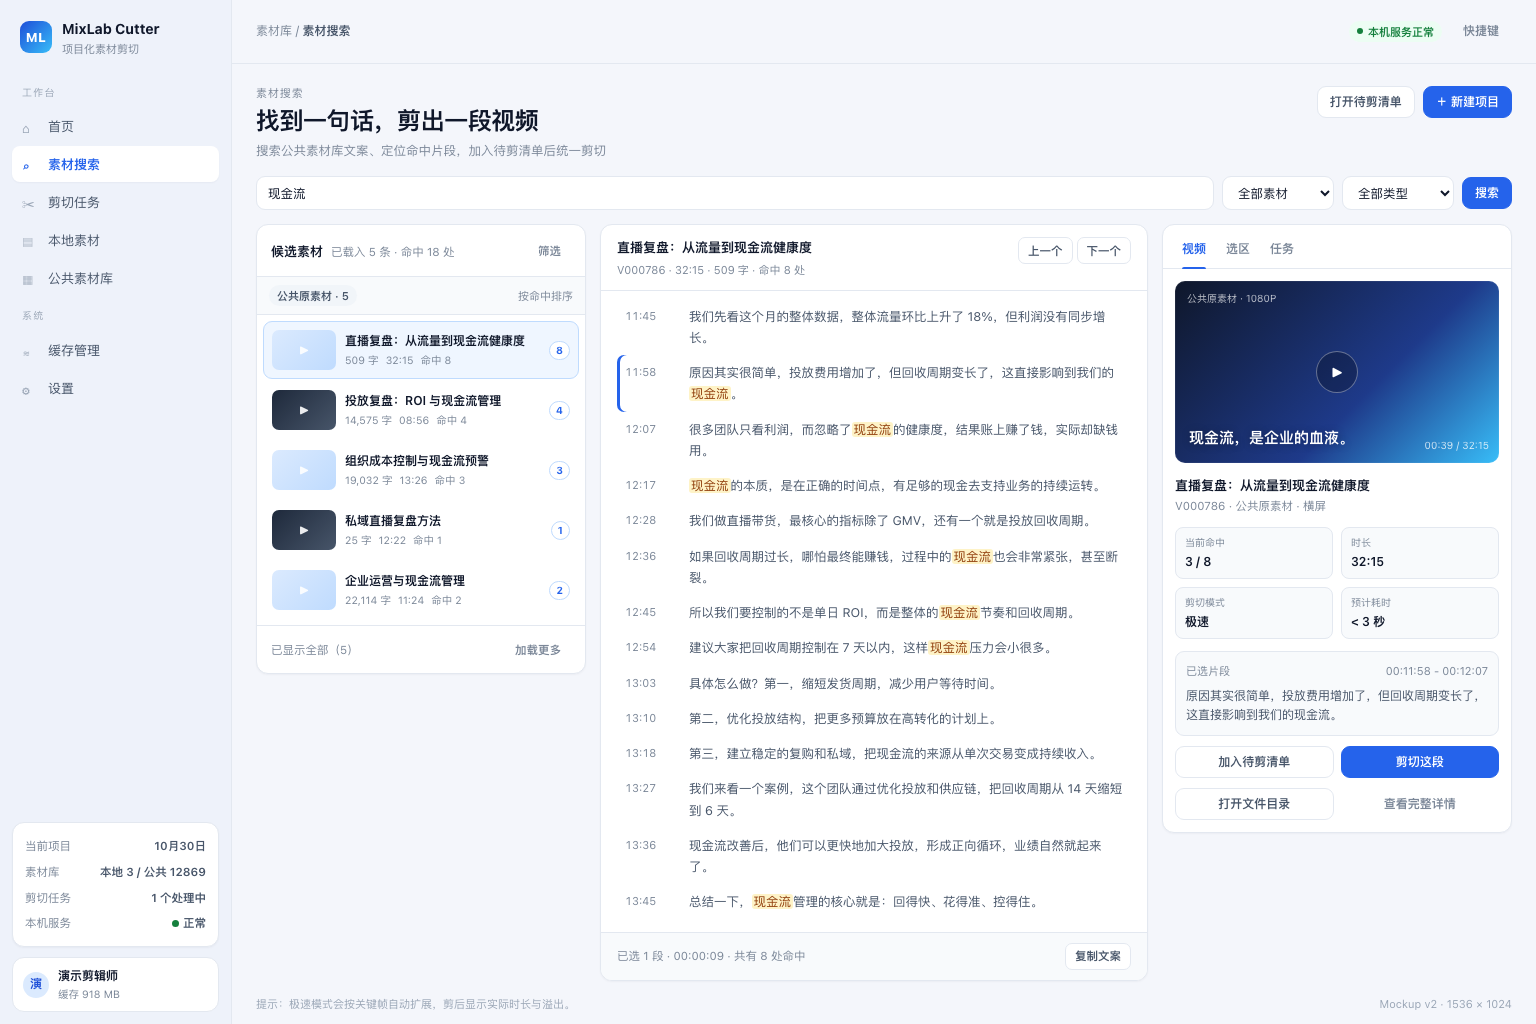
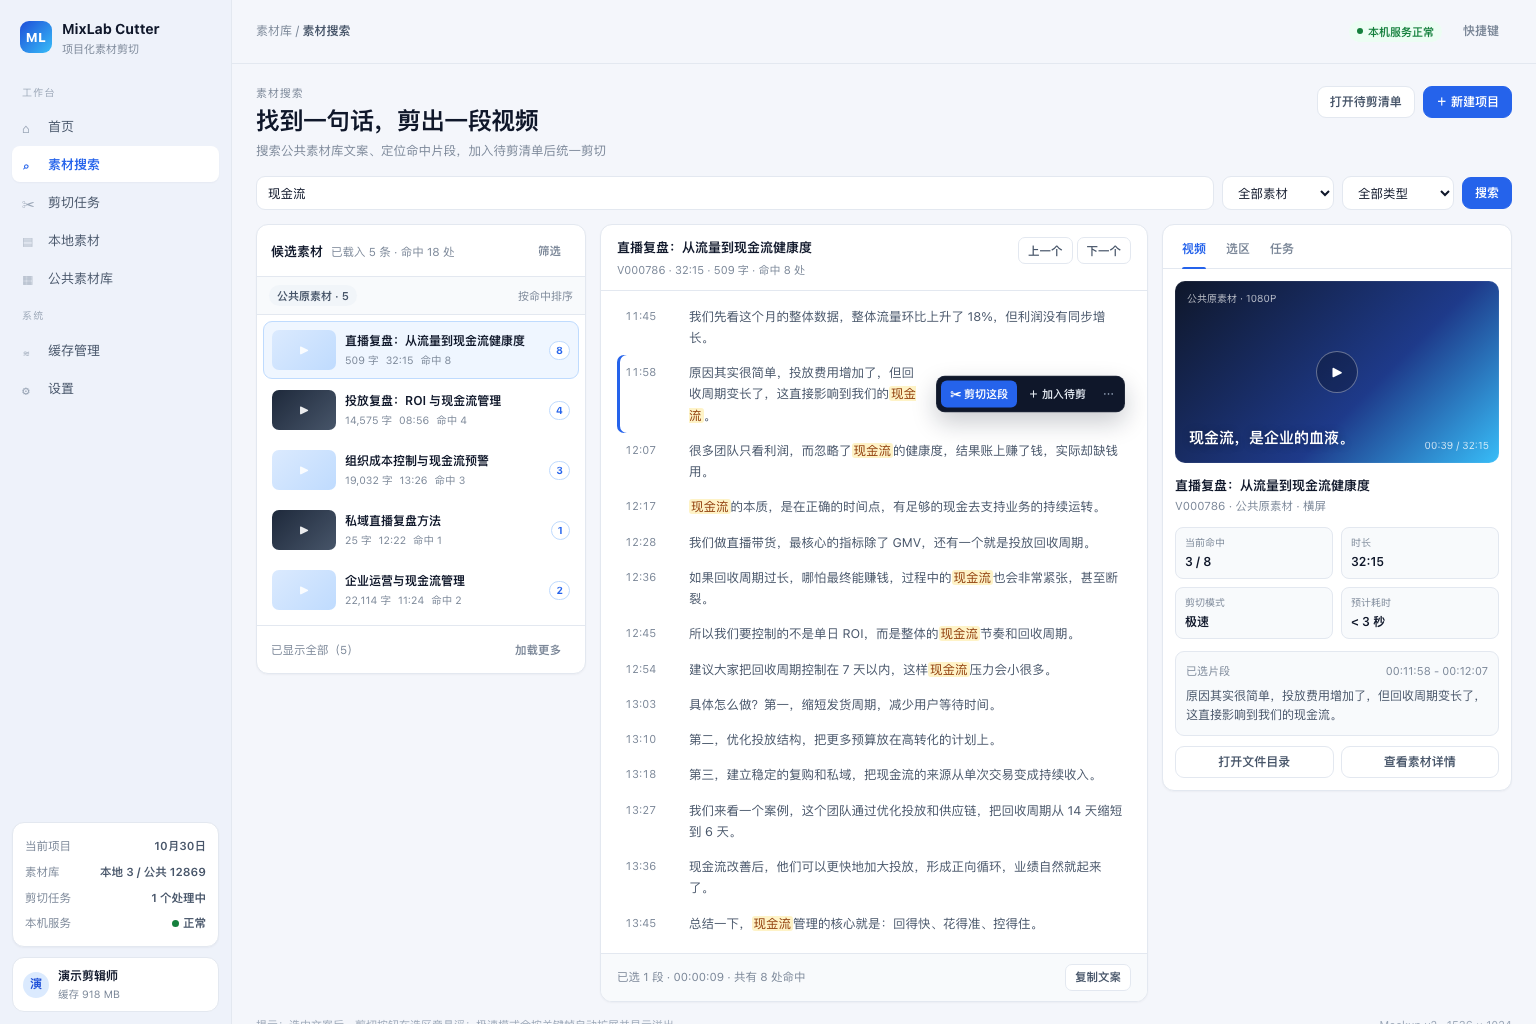
docs(design): add home mockup and floating cut action

diff --git a/docs/design/mockups/home.html b/docs/design/mockups/home.html
@@ -1,0 +1,67 @@
+<!doctype html>
+<html lang="zh-CN"><head><meta charset="utf-8" /><meta name="viewport" content="width=device-width, initial-scale=1" /><title>MixLab Cutter · 首页 Mockup</title><link rel="stylesheet" href="assets/styles.css" /></head>
+<body><div class="app">
+  <aside class="sidebar">
+    <div class="brand"><div class="brand-mark">ML</div><div><div class="brand-name">MixLab Cutter</div><div class="brand-sub">项目化素材剪切</div></div></div>
+    <nav class="nav">
+      <div class="nav-label">工作台</div>
+      <a class="nav-item active" href="home.html"><span class="nav-icon">⌂</span><span>首页</span></a>
+      <a class="nav-item" href="workbench.html"><span class="nav-icon">⌕</span><span>素材搜索</span></a>
+      <a class="nav-item" href="cut-tasks.html"><span class="nav-icon">✂</span><span>剪切任务</span></a>
+      <a class="nav-item" href="local-library.html"><span class="nav-icon">▤</span><span>本地素材</span></a>
+      <a class="nav-item" href="#"><span class="nav-icon">▦</span><span>公共素材库</span></a>
+      <div class="nav-label">系统</div>
+      <a class="nav-item" href="#"><span class="nav-icon">≋</span><span>缓存管理</span></a>
+      <a class="nav-item" href="#"><span class="nav-icon">⚙</span><span>设置</span></a>
+    </nav>
+    <div class="sidebar-spacer"></div>
+    <div class="sidebar-status"><div class="status-row"><span>当前项目</span><strong>未选择</strong></div><div class="status-row"><span>素材库</span><strong>本地 3 / 公共 12869</strong></div><div class="status-row"><span>剪切任务</span><strong>1 个处理中</strong></div><div class="status-row"><span>本机服务</span><strong><i class="status-dot"></i>正常</strong></div></div>
+    <div class="user-card"><div class="avatar">演</div><div class="user-copy"><div class="user-name">演示剪辑师</div><div class="user-meta">缓存 918 MB</div></div></div>
+  </aside>
+  <div class="main">
+    <header class="topbar"><div class="breadcrumb">工作台 / <strong>首页</strong></div><div class="topbar-spacer"></div><div class="topbar-actions"><span class="badge success"><span class="dot"></span>本机服务正常</span><button class="btn ghost">快捷键</button></div></header>
+    <div class="page">
+      <div class="page-header">
+        <div><div class="page-eyebrow">工作台</div><h1>开始一个剪切项目</h1><p class="page-subtitle">选择最近项目继续，或直接搜索素材；项目会把搜索、任务和本地素材归档在一起。</p></div>
+        <div class="page-actions"><button class="btn">导入项目</button><button class="btn primary">＋ 新建项目</button></div>
+      </div>
+      <section class="home-hero">
+        <div class="hero-side"><span class="hero-chip">● 本机服务正常</span><span class="hero-chip">本地素材 3</span></div>
+        <h2>从一句话，剪出一条视频</h2>
+        <p class="hero-sub">在公共素材库中搜索文案，定位命中片段，加入待剪清单后统一剪切。</p>
+        <div class="hero-search"><input class="input" placeholder="输入文案关键词，例如：现金流" /><button class="btn primary">搜索素材</button><button class="btn">浏览公共素材库</button></div>
+        <div class="hero-stats">
+          <div class="hero-stat"><span>最近项目</span><strong>0</strong></div>
+          <div class="hero-stat"><span>本地素材</span><strong>3</strong></div>
+          <div class="hero-stat"><span>剪切任务</span><strong>1 处理中</strong></div>
+          <div class="hero-stat"><span>今日完成</span><strong>12</strong></div>
+        </div>
+      </section>
+      <div class="home-grid">
+        <section class="card">
+          <div class="home-section-title"><strong>最近项目</strong><button class="btn small ghost">查看全部</button></div>
+          <div class="home-empty empty-state" style="border:0;background:transparent">
+            <strong>还没有剪切项目</strong>
+            新建项目后，搜索记录、剪切任务和本地素材会自动归档到同一个项目。
+            <div class="empty-actions"><button class="btn primary">＋ 新建项目</button><button class="btn">先搜索素材</button></div>
+          </div>
+          </section>
+        <section class="card">
+          <div class="home-section-title"><strong>快速开始</strong><span>常用入口</span></div>
+          <div class="quick-list">
+            <div class="quick-item"><div class="quick-icon">＋</div><div class="quick-text"><strong>新建项目</strong><span>为这次剪辑建立独立项目</span></div><span class="table-note">推荐</span></div>
+            <div class="quick-item"><div class="quick-icon">⌕</div><div class="quick-text"><strong>搜索素材</strong><span>按文案定位公共素材片段</span></div></div>
+            <div class="quick-item"><div class="quick-icon">✂</div><div class="quick-text"><strong>查看剪切任务</strong><span>1 个处理中 · 预计 1 分 05 秒</span></div></div>
+            <div class="quick-item"><div class="quick-icon">▤</div><div class="quick-text"><strong>本地素材</strong><span>播放、打开目录或继续编辑</span></div></div>
+          </div>
+          <div class="home-section-title" style="border-top:1px solid var(--border);border-bottom:0"><strong>最近剪切</strong><button class="btn small ghost">全部任务</button></div>
+          <div class="card-body" style="padding-top:4px">
+            <div class="mini-task"><span class="badge warning"><span class="dot"></span>等待中</span><div class="mini-task-title">1-10月30日-直播复盘</div><span class="table-note">第 2 位</span></div>
+            <div class="mini-task"><span class="badge success"><span class="dot"></span>已完成</span><div class="mini-task-title">1-10月30日-私域直播</div><span class="table-note">00:03</span></div>
+          </div>
+        </section>
+      </div>
+      <div class="footer-note"><span>首页目标：让人 3 秒内知道下一步（新建项目 / 继续最近 / 直接搜索）</span><span>Mockup v2 · 首页 · 1536 × 1024</span></div>
+    </div>
+  </div>
+</div></body></html>

diff --git a/docs/design/mockups/assets/styles.css b/docs/design/mockups/assets/styles.css
@@ -261,3 +261,70 @@ tr:hover td { background: var(--surface-2); }
   .workbench-grid .inspector-card { grid-column: 1 / -1; }
   .detail-grid { grid-template-columns: minmax(0, 1fr); }
 }
+
+.home-hero {
+  position: relative;
+  overflow: hidden;
+  border: 1px solid #dbe7fb;
+  border-radius: var(--radius-lg);
+  background:
+    radial-gradient(900px 340px at 88% 10%, rgba(56,189,248,.28), transparent 60%),
+    radial-gradient(600px 300px at 8% 100%, rgba(37,99,235,.13), transparent 60%),
+    linear-gradient(115deg, #ffffff 0%, #f6f9ff 58%, #eef5ff 100%);
+  padding: 26px 28px 22px;
+  margin-bottom: 16px;
+}
+.home-hero h2 { margin: 0; font-size: 25px; letter-spacing: -.02em; line-height: 1.3; }
+.home-hero .hero-sub { margin: 7px 0 18px; color: var(--text-secondary); font-size: 12.5px; max-width: 620px; }
+.hero-search { display: flex; gap: 8px; max-width: 720px; }
+.hero-search .input { height: 40px; background: #fff; box-shadow: 0 1px 2px rgba(15,23,42,.03); }
+.hero-search .btn { height: 40px; padding: 0 18px; font-size: 13px; }
+.hero-stats { display: flex; gap: 24px; margin-top: 20px; padding-top: 14px; border-top: 1px solid rgba(37,99,235,.12); }
+.hero-stat span { display: block; color: var(--muted); font-size: 10.5px; }
+.hero-stat strong { display: block; margin-top: 2px; font-size: 18px; font-weight: 700; }
+.hero-side { position: absolute; right: 30px; top: 28px; display: flex; flex-direction: column; align-items: flex-end; gap: 8px; }
+.hero-chip { display: inline-flex; align-items: center; gap: 6px; padding: 5px 11px; border-radius: 999px; background: rgba(255,255,255,.72); border: 1px solid rgba(37,99,235,.16); color: var(--accent); font-size: 11px; font-weight: 600; backdrop-filter: blur(6px); }
+.home-grid { display: grid; grid-template-columns: minmax(0, 1.55fr) minmax(320px, .8fr); gap: 14px; align-items: start; }
+.project-grid { display: grid; grid-template-columns: repeat(2, minmax(0, 1fr)); gap: 10px; padding: 12px; }
+.project-card { border: 1px solid var(--border); border-radius: 10px; overflow: hidden; background: var(--surface); }
+.project-cover { height: 74px; background: linear-gradient(135deg,#dbeafe,#bfdbfe); position: relative; }
+.project-cover.dark { background: linear-gradient(135deg,#1e293b,#475569); }
+.project-cover .cover-badge { position: absolute; left: 8px; bottom: 7px; background: rgba(255,255,255,.86); color: var(--text-secondary); border-radius: 999px; padding: 2px 8px; font-size: 10px; font-weight: 600; }
+.project-body { padding: 9px 10px 10px; }
+.project-name { font-size: 12.5px; font-weight: 700; }
+.project-meta { margin-top: 3px; color: var(--muted); font-size: 10.5px; display: flex; justify-content: space-between; gap: 6px; }
+.quick-list { padding: 6px 8px 8px; }
+.quick-item { display: flex; align-items: center; gap: 10px; padding: 10px; border-radius: 9px; border: 1px solid transparent; }
+.quick-item:hover { background: var(--surface-2); border-color: var(--border); }
+.quick-icon { width: 32px; height: 32px; border-radius: 9px; background: var(--accent-weak); color: var(--accent); display: grid; place-items: center; font-size: 14px; flex: none; }
+.quick-text { flex: 1; min-width: 0; }
+.quick-text strong { display: block; font-size: 12px; }
+.quick-text span { display: block; color: var(--muted); font-size: 10.5px; margin-top: 1px; }
+.home-empty { margin: 2px; padding: 26px 18px; }
+.home-empty .empty-actions { display: flex; gap: 8px; justify-content: center; margin-top: 12px; }
+.home-section-title { padding: 11px 14px; border-bottom: 1px solid var(--border); display: flex; justify-content: space-between; align-items: center; }
+.home-section-title strong { font-size: 13px; }
+.home-section-title span { color: var(--muted); font-size: 11px; }
+
+.floating-cut {
+  position: absolute;
+  right: 14px;
+  top: -16px;
+  display: inline-flex;
+  align-items: center;
+  gap: 2px;
+  padding: 4px;
+  border-radius: 9px;
+  background: #0f172a;
+  border: 1px solid rgba(255,255,255,.08);
+  box-shadow: 0 10px 24px rgba(15,23,42,.22);
+  z-index: 3;
+}
+.floating-cut button { border: 0; height: 27px; border-radius: 6px; padding: 0 9px; font-size: 11px; font-weight: 600; cursor: pointer; }
+.floating-cut .fc-primary { background: var(--accent); color: #fff; }
+.floating-cut .fc-secondary { background: transparent; color: #e2e8f0; }
+.floating-cut .fc-more { background: transparent; color: #94a3b8; padding: 0 6px; }
+
+/* Floating cut toolbar: reserve space in selected row so it never covers text. */
+.transcript-row.current { padding-right: 210px; }
+.floating-cut { top: 50%; right: 6px; transform: translateY(-50%); }

diff --git a/docs/design/mockups/workbench.html b/docs/design/mockups/workbench.html
@@ -110,7 +110,7 @@
           </div>
           <div class="transcript scroll-area">
             <div class="transcript-row"><div class="transcript-time">11:45</div><div class="transcript-text">我们先看这个月的整体数据，整体流量环比上升了 18%，但利润没有同步增长。</div></div>
-            <div class="transcript-row current"><div class="transcript-time">11:58</div><div class="transcript-text">原因其实很简单，投放费用增加了，但回收周期变长了，这直接影响到我们的<mark>现金流</mark>。</div></div>
+            <div class="transcript-row current" style="position:relative"><div class="transcript-time">11:58</div><div class="transcript-text">原因其实很简单，投放费用增加了，但回收周期变长了，这直接影响到我们的<mark>现金流</mark>。<div class="floating-cut"><button class="fc-primary">✂ 剪切这段</button><button class="fc-secondary">＋ 加入待剪</button><button class="fc-more">⋯</button></div></div></div>
             <div class="transcript-row"><div class="transcript-time">12:07</div><div class="transcript-text">很多团队只看利润，而忽略了<mark>现金流</mark>的健康度，结果账上赚了钱，实际却缺钱用。</div></div>
             <div class="transcript-row"><div class="transcript-time">12:17</div><div class="transcript-text"><mark>现金流</mark>的本质，是在正确的时间点，有足够的现金去支持业务的持续运转。</div></div>
             <div class="transcript-row"><div class="transcript-time">12:28</div><div class="transcript-text">我们做直播带货，最核心的指标除了 GMV，还有一个就是投放回收周期。</div></div>
@@ -155,8 +155,8 @@
               <div class="range"><span>已选片段</span><span>00:11:58 - 00:12:07</span></div>
               原因其实很简单，投放费用增加了，但回收周期变长了，这直接影响到我们的现金流。
             </div>
-            <div class="action-row"><button class="btn">加入待剪清单</button><button class="btn primary">剪切这段</button></div>
-            <div class="action-row"><button class="btn">打开文件目录</button><button class="btn ghost">查看完整详情</button></div>
+            <div class="action-row"><button class="btn">打开文件目录</button><button class="btn">查看素材详情</button></div>
+            
           </div>
           <div class="inspector-body" data-tab="selection" style="display:none">
             <div class="selection-box">
@@ -167,7 +167,7 @@
               <div class="meta-item"><span>选中字数</span><strong>37 字</strong></div>
               <div class="meta-item"><span>时长</span><strong>9 秒</strong></div>
             </div>
-            <div class="action-row"><button class="btn">加入待剪清单</button><button class="btn primary">剪切这段</button></div>
+            <div class="action-row"><button class="btn">打开文件目录</button><button class="btn">查看素材详情</button></div>
           </div>
           <div class="inspector-body" data-tab="tasks" style="display:none">
             <div class="mini-task"><span class="badge warning"><span class="dot"></span>等待中</span><div class="mini-task-title">1-10月30日-直播复盘</div><span class="table-note">第 1 位</span></div>
@@ -177,7 +177,7 @@
           </div>
         </section>
       </div>
-      <div class="footer-note"><span>提示：极速模式会按关键帧自动扩展，剪后显示实际时长与溢出。</span><span>Mockup v2 · 1536 × 1024</span></div>
+      <div class="footer-note"><span>提示：选中文案后，剪切按钮在选区旁悬浮；极速模式会按关键帧自动扩展并显示溢出。</span><span>Mockup v2 · 1536 × 1024</span></div>
     </div>
   </div>
 </div>

diff --git a/docs/design/mockups/index.html b/docs/design/mockups/index.html
@@ -2,7 +2,8 @@
 <html lang="zh-CN"><head><meta charset="utf-8" /><meta name="viewport" content="width=device-width, initial-scale=1" /><title>MixLab Cutter · UI Mockups v2</title><link rel="stylesheet" href="assets/styles.css" /></head>
 <body><div class="page" style="max-width:1000px;margin:0 auto">
 <div class="page-header"><div><div class="page-eyebrow">Design mockups</div><h1>MixLab Cutter · UI / UX v2</h1><p class="page-subtitle">页面审计后的重排 mockup，先确认方向，再排期实施。</p></div></div>
-<div class="kpi-grid" style="grid-template-columns:repeat(3,1fr)">
+<div class="kpi-grid" style="grid-template-columns:repeat(4,1fr)">
+  <a class="card kpi" href="home.html"><div class="kpi-label">入口</div><div class="kpi-value" style="font-size:18px">首页</div><div class="kpi-meta">新建 / 继续 / 直接搜索</div></a>
   <a class="card kpi" href="workbench.html"><div class="kpi-label">核心工作台</div><div class="kpi-value" style="font-size:18px">素材搜索</div><div class="kpi-meta">三栏重排 / Inspector tabs</div></a>
   <a class="card kpi" href="cut-tasks.html"><div class="kpi-label">任务与队列</div><div class="kpi-value" style="font-size:18px">剪切任务</div><div class="kpi-meta">队列位置 / ETA / 详情</div></a>
   <a class="card kpi" href="local-library.html"><div class="kpi-label">结果消费</div><div class="kpi-value" style="font-size:18px">本地素材</div><div class="kpi-meta">网格 + 详情 Inspector</div></a>

diff --git a/docs/design/cutter-ui-audit.md b/docs/design/cutter-ui-audit.md
@@ -35,6 +35,24 @@
 
 ## 3. 逐页审计
 
+### 3.0 首页（project-home / 用户指定优先）
+
+现状：整页大面积空白；顶部英文面包屑 "Cutter / Project Home"；标题引导"选择项目，然后开始搜索素材"，但页面没有项目卡/空态 CTA；搜索框孤立在右上；项目详情为空。
+
+问题：
+1. 首页没有回答"下一步做什么"：新建项目/继续最近/直接搜索三个入口不清晰；
+2. 空态没有友好说明和主操作，页面看起来像未完成；
+3. 顶部标题与搜索框分离，缺少统一 Hero/入口区；
+4. 项目详情/最近项目/快捷入口没有稳定布局；
+5. 英文面包屑与中文界面不一致。
+
+重排方案（见 mockups/home.html）：
+- 统一中文面包屑与 PageHeader；
+- Hero：价值说明 + 搜索框 + 主操作（搜索素材/浏览公共素材库），右侧服务状态；
+- 最近项目：空态显示说明 + 新建项目/先搜索素材；有项目时显示项目卡网格；
+- 快速开始：新建项目/搜索素材/剪切任务/本地素材四入口；
+- 最近剪切：2~3 条摘要，完整列表去剪切任务页。
+
 ### 3.1 素材搜索 / 工作台（material-locator）
 
 现状：左栏导航、中间"候选素材 + 视频文案"、右栏"视频 + 选区 + 最近任务"；页面没有 H1；搜索框独占一行；右栏三块内容堆叠，最近任务表格被压缩。
@@ -46,6 +64,12 @@
 4. 任务表在 320px 列内换行严重；
 5. 候选卡片标题/元信息/命中数对齐不稳定；
 6. 右侧"打开文件目录/剪切"等按钮主次不明确。
+
+交互要求（用户指定，必须保留）：
+- 选中文案后，剪切按钮跟随选区/鼠标悬浮，不是固定在任务 Tabs 里；
+- 悬浮条包含：剪切这段（primary）、加入待剪（secondary）、更多；点击后直接进入剪切确认/提交；
+- 悬浮条自动避让选区文本，支持 Esc 关闭；无选区时隐藏；
+- Inspector 的"任务"Tab 只承载队列/详情，不作为唯一剪切入口。
 
 重排方案（见 mockups/workbench.html）：
 - 页面标题「素材搜索」+ 一句说明 + 全局搜索/筛选行；
@@ -143,7 +167,7 @@
 | 阶段 | 内容 | 时间估算 |
 |---|---|---|
 | Phase 0 | 设计令牌 + AppShell + 基础组件（Button/Card/Badge/Table/Empty/Skeleton）+ 截图基线 | 3~5 天 |
-| Phase 1 | 素材搜索、剪切任务两个核心页重排 | 3~5 天 |
+| Phase 1 | 首页（优先）、素材搜索、剪切任务 | 3~5 天 |
 | Phase 2 | 本地素材、缓存管理、设置 | 3~5 天 |
 | Phase 3 | 深色主题、快捷键、可访问性/缩放、视觉回归 | 按需 |
 
@@ -156,6 +180,7 @@
 - 表格标题最多 1 行截断 + tooltip；关键数字可读；
 - 空态/错误态有明确下一步；
 - 125%/150% 缩放下不重叠；
+- Windows 真机截图基线：同一页面 100%/125%/150% 缩放，覆盖首页/素材搜索（含悬浮剪切）/剪切任务/本地素材/缓存/设置；
 - Playwright 截图基线对比，允许的视觉 diff 明确；
 - 2~3 位真实剪辑师完成核心路径（搜索→选区→剪切→本地素材）。
 

diff --git a/docs/design/mockups/README.md b/docs/design/mockups/README.md
@@ -4,13 +4,15 @@
 
 ## 预览
 
-- workbench.html：素材搜索三栏重排（候选 / 文案 / Inspector Tabs）
+- home.html：首页（Hero / 最近项目空态 / 快速开始）
+- workbench.html：素材搜索三栏重排（候选 / 文案 / Inspector Tabs + 选区悬浮剪切）
 - cut-tasks.html：剪切队列（KPI / ETA / 表格 + 详情）
 - local-library.html：本地素材（网格 + 详情 Inspector）
 - index.html：入口索引
 
 ## 截图
 
+- screenshots/home-1536.png
 - screenshots/workbench-1536.png
 - screenshots/workbench-1440.png
 - screenshots/cut-tasks-1536.png
